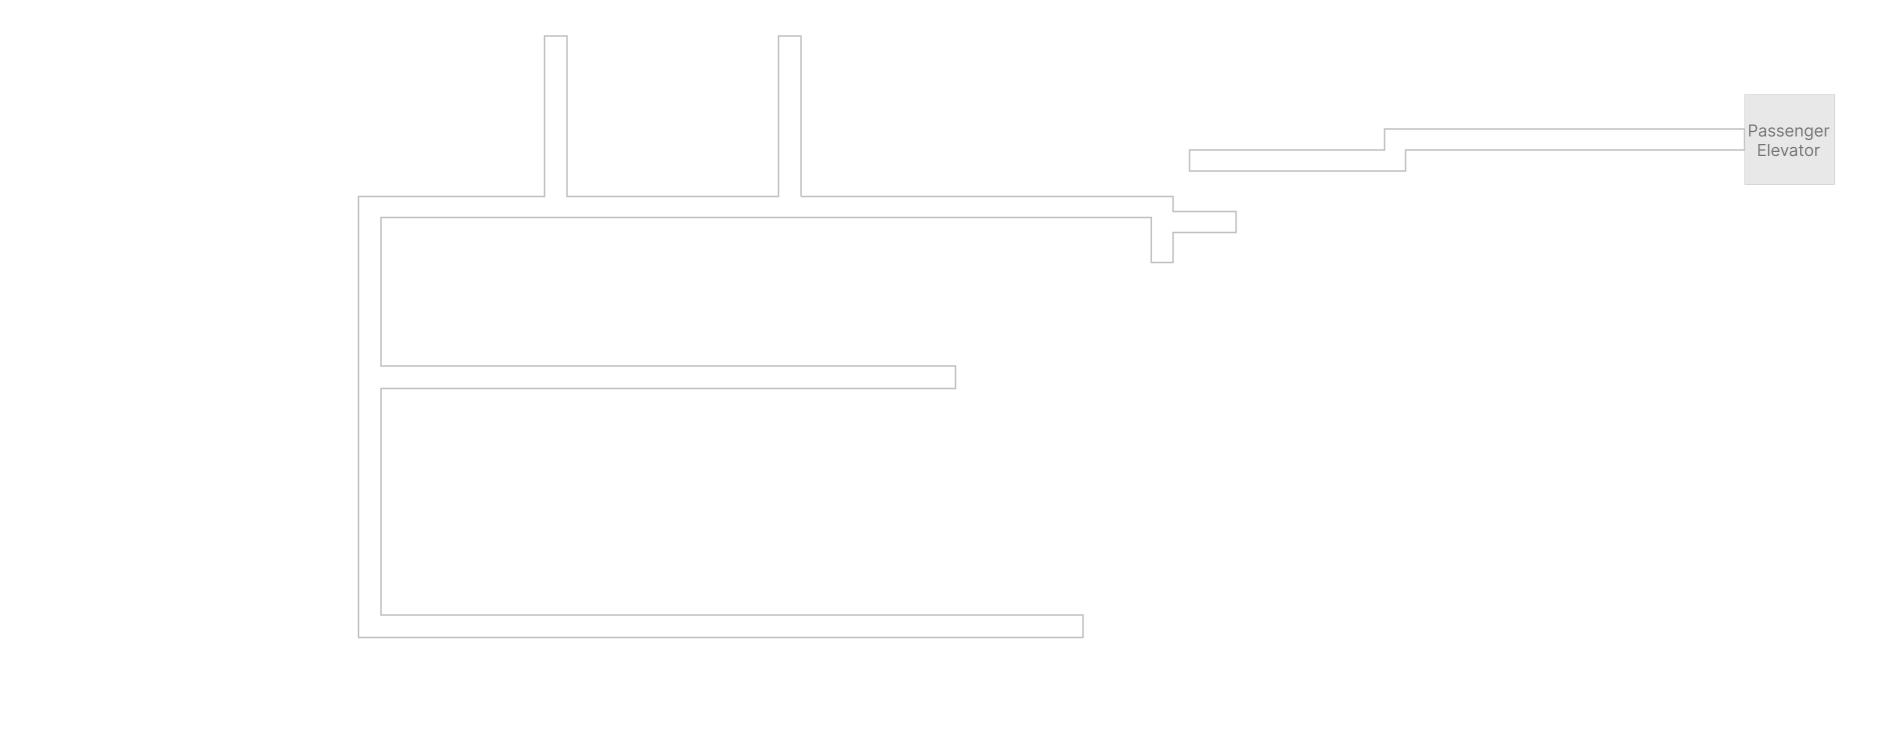
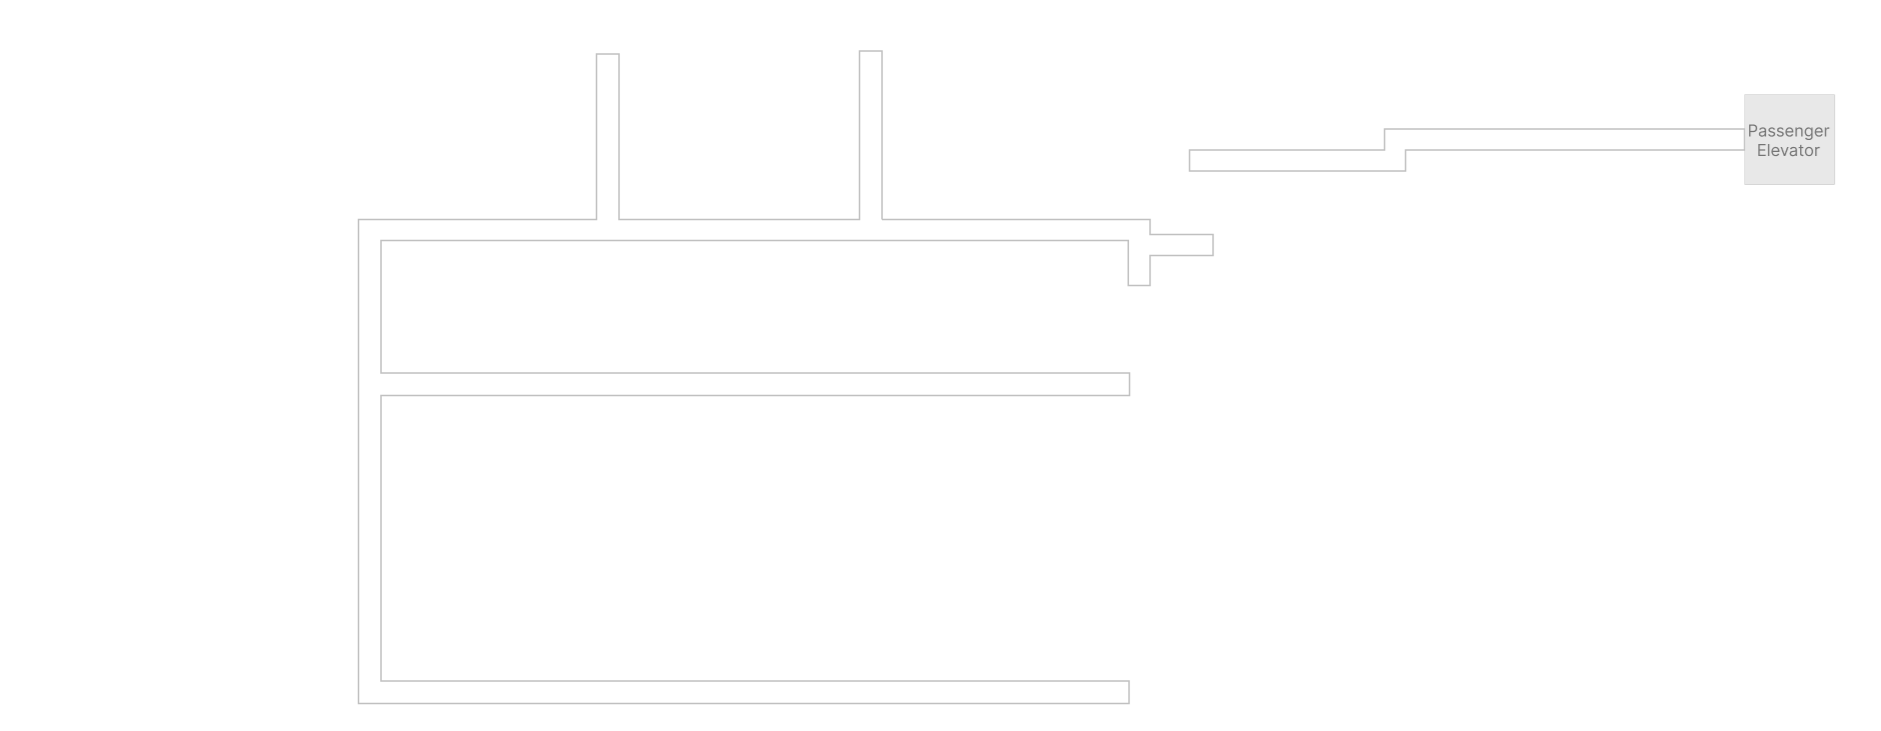
地圖顯示優化：支援 SVG、充電站顯示修正
調整地圖載入機制，優先載入 SVG，失敗時自動回退 PNG，提升地圖品質與相容性。修正僅於 FHT2-1F 顯示充電站圖片，避免其他樓層誤顯。更新 FHT2-2F 地圖座標參數與圖片，並新增原始圖檔。Controller 傳遞目前區域資訊供前端判斷。

diff --git a/WebGui/SCP/wwwroot/js/Map.js b/WebGui/SCP/wwwroot/js/Map.js
@@ -10,7 +10,16 @@ export function loadMapData(area) {
             $("#Map").html(data);
 
             const mapSrc = area || 'FHT2-1F';
-            $('#map-img').attr('src', `/img/${mapSrc}.png`);
+            // 優先嘗試 SVG，如果載入失敗則回退到 PNG
+            const $mapImg = $('#map-img');
+            $mapImg.off('error').on('error', function () {
+                // SVG 載入失敗，嘗試 PNG
+                const currentSrc = $(this).attr('src');
+                if (currentSrc && currentSrc.endsWith('.svg')) {
+                    $(this).attr('src', `/img/${mapSrc}.png`);
+                }
+            });
+            $mapImg.attr('src', `/img/${mapSrc}.svg`);
 
             // 初始化所有庫位的 Bootstrap Tooltip
             $('[data-bs-toggle="tooltip"]').tooltip({

diff --git a/WebGui/SCP/Controllers/CommonController.cs b/WebGui/SCP/Controllers/CommonController.cs
@@ -38,6 +38,7 @@ namespace SCP.Controllers
                 var agvPositions = GetAgv(area);
                 LogMgt.Logger?.Info($"[ShowMap] AGV 資料載入成功, 共 {agvPositions.Count} 個 AGV");
                 ViewBag.AgvPositions = agvPositions;
+                ViewBag.CurrentArea = area;
 
                 LogMgt.Logger?.Info($"[ShowMap] 地圖載入完成");
                 return PartialView("_MapPartial");
